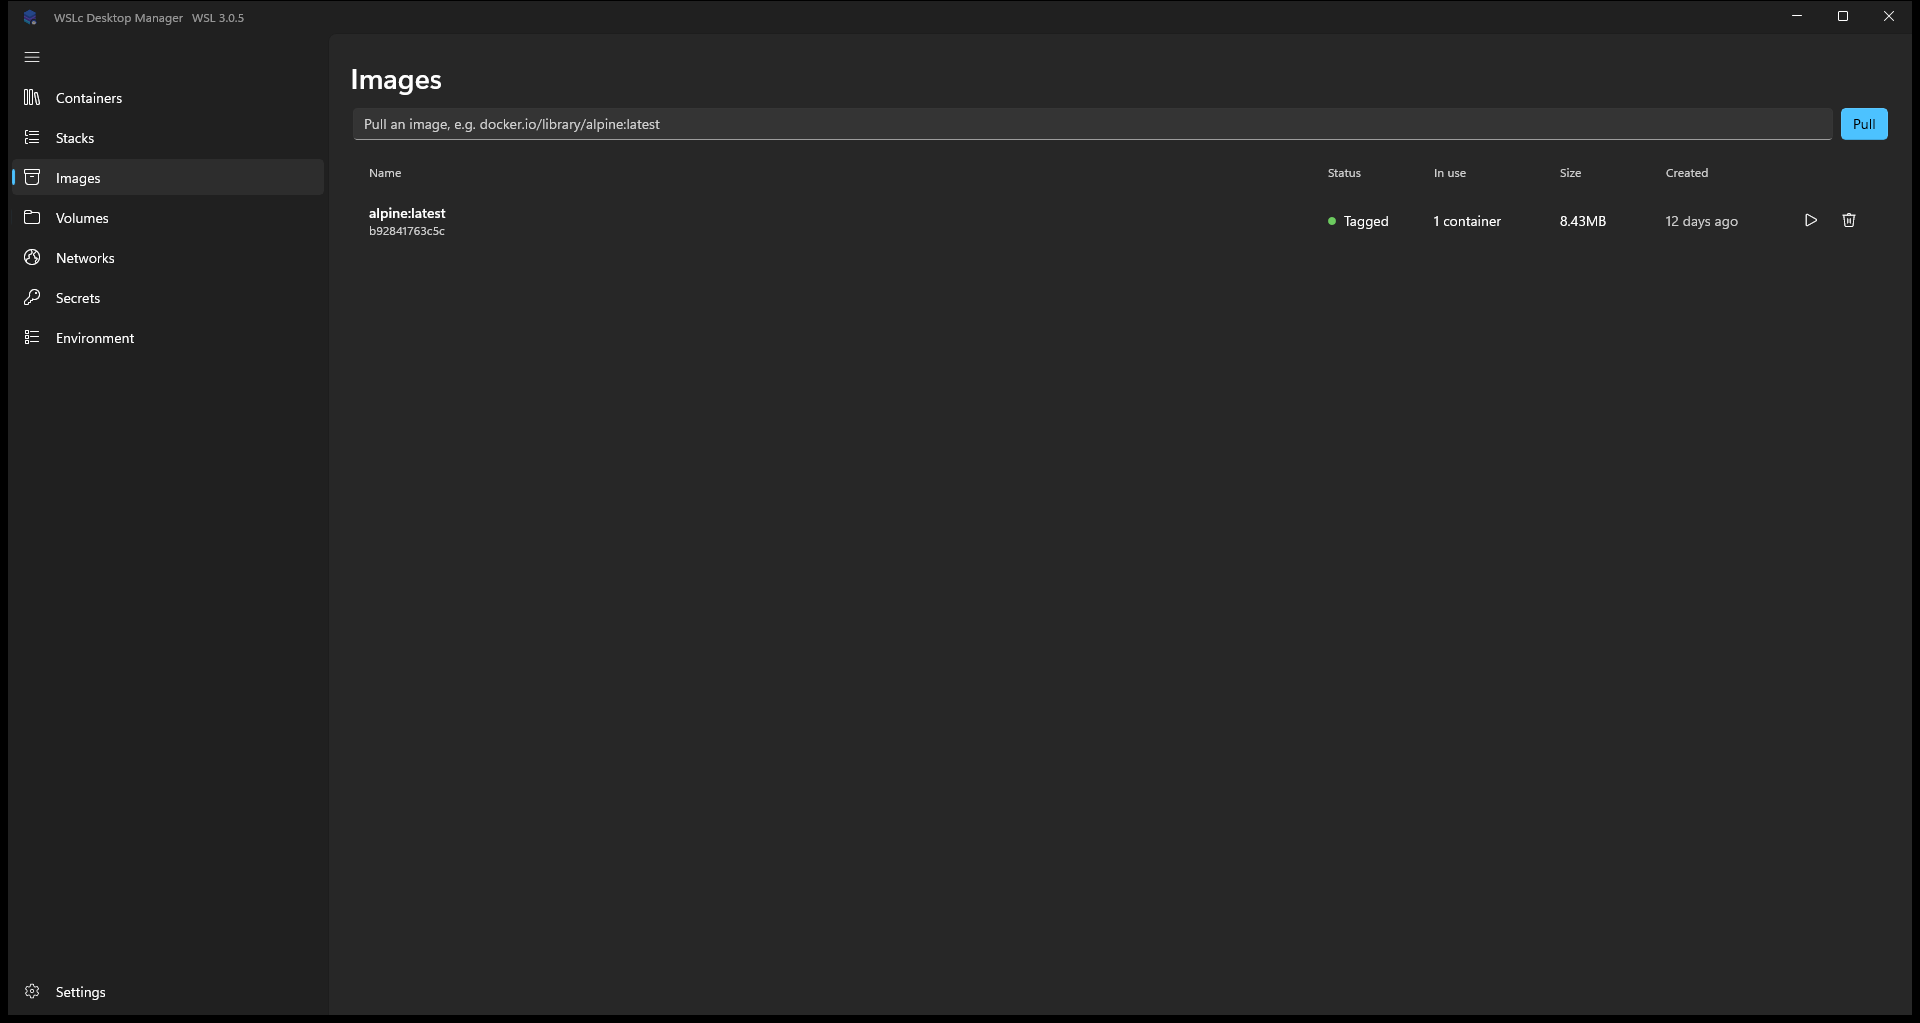
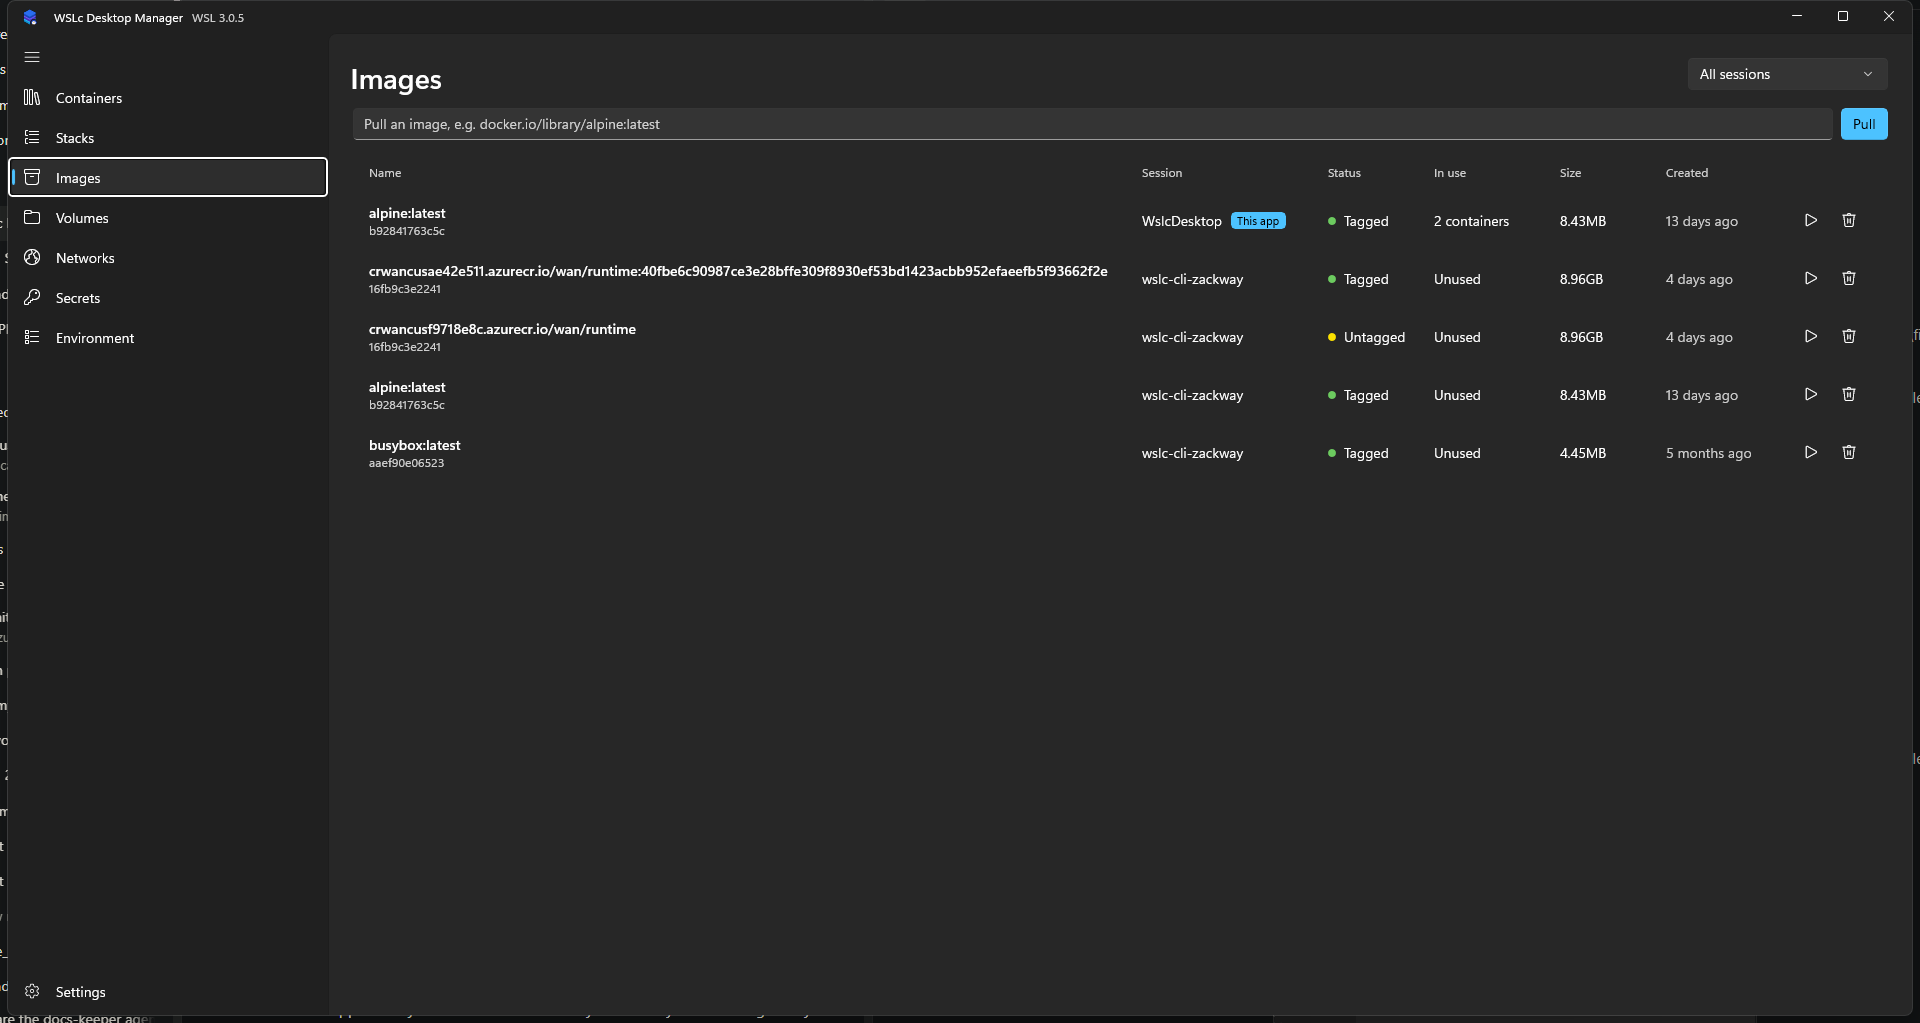
Docs: refresh Images screenshots for the Session column

diff --git a/docs/features/images.md b/docs/features/images.md
@@ -21,3 +21,5 @@ Select an image to see its overview (session, tags, ID, digest, size, OS/archite
 ::: info
 WSLc reports each layer's digest but not its size or the command that created it, so only digests are shown.
 :::
+
+![Running an image owned by another session](/screenshots/image-other-session-run.png)
